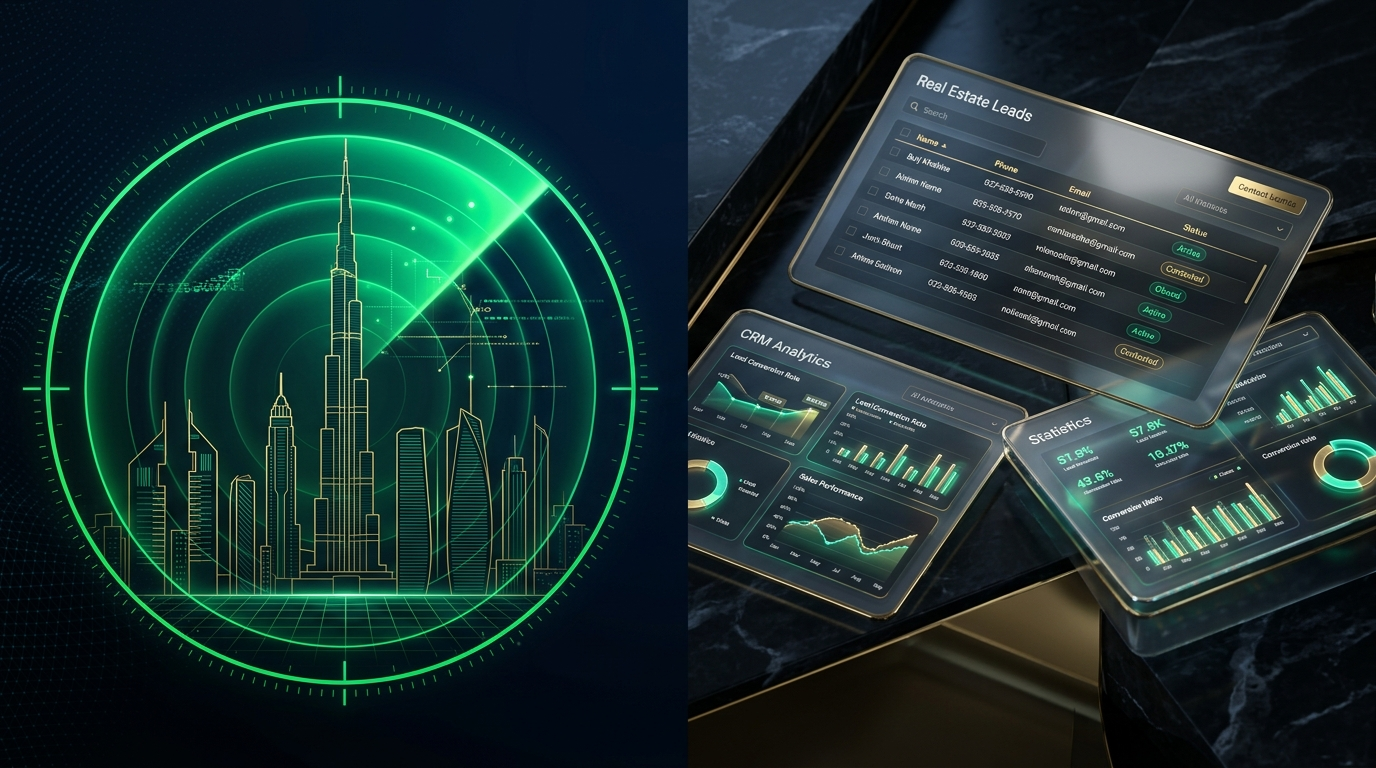
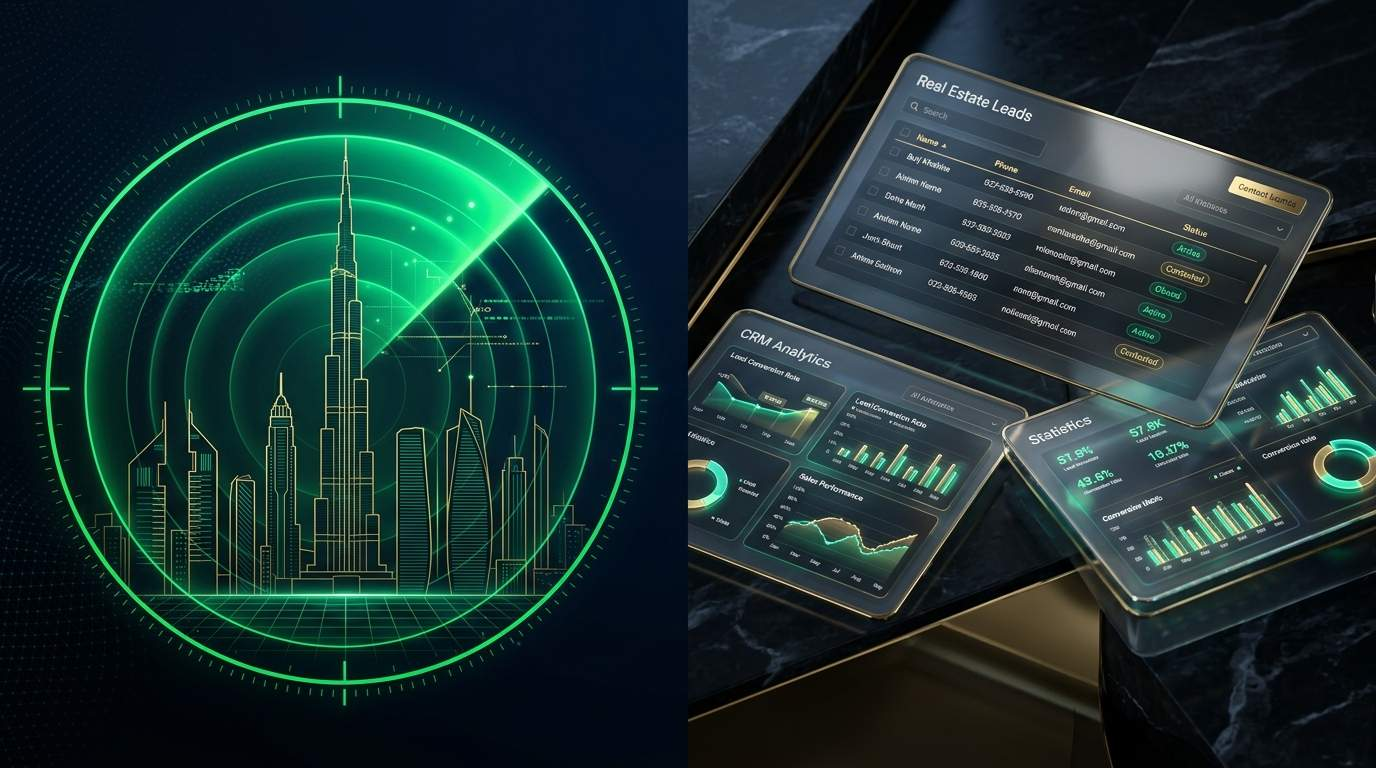
perf(mobile): enable GZip compression, immutable asset caching, 85% hero image compression and paginated lead rendering

Changed region(s): [[0.875, 0.6562, 0.9375, 0.6875], [0.9375, 0.5, 0.9688, 0.5312], [0.8438, 0.6875, 0.875, 0.7188]]

diff --git a/frontend/src/pages/CampaignManager.tsx b/frontend/src/pages/CampaignManager.tsx
@@ -46,6 +46,7 @@ export const CampaignManager: React.FC<CampaignManagerProps> = ({ currentUser })
   const [isLoadingLeads, setIsLoadingLeads] = useState<boolean>(false);
   const [searchTerm, setSearchTerm] = useState<string>('');
   const [statusFilter, setStatusFilter] = useState<'all' | 'pending' | 'sent'>('all');
+  const [displayLimit, setDisplayLimit] = useState<number>(30);
 
   // Single send feedback
   const [sendingLeadId, setSendingLeadId] = useState<string | null>(null);
@@ -800,7 +801,7 @@ export const CampaignManager: React.FC<CampaignManagerProps> = ({ currentUser })
             </div>
 
             <div className="max-h-[580px] overflow-y-auto space-y-2.5 pr-2 custom-scrollbar">
-              {filteredLeads.map((lead, idx) => {
+              {filteredLeads.slice(0, displayLimit).map((lead, idx) => {
                 const isSent = lead.whatsapp_status === 'sent';
                 const isSendingThis = sendingLeadId === lead.id;
                 const cleanPhone = (lead.phone || '').replace(/[^0-9]/g, '');
@@ -897,6 +898,16 @@ export const CampaignManager: React.FC<CampaignManagerProps> = ({ currentUser })
                   </div>
                 );
               })}
+
+              {displayLimit < filteredLeads.length && (
+                <button
+                  type="button"
+                  onClick={() => setDisplayLimit((prev) => prev + 40)}
+                  className="w-full py-3 px-4 rounded-2xl bg-white hover:bg-slate-100 text-slate-800 font-mono text-xs font-bold border border-slate-200 transition shadow-sm"
+                >
+                  ➕ Ver más leads ({filteredLeads.length - displayLimit} restantes)
+                </button>
+              )}
 
               {filteredLeads.length === 0 && (
                 <div className="py-16 text-center text-slate-400 text-xs font-mono">

diff --git a/backend/app/main.py b/backend/app/main.py
@@ -1,5 +1,6 @@
-from fastapi import FastAPI, HTTPException, BackgroundTasks, UploadFile, File, Form, Depends
+from fastapi import FastAPI, HTTPException, BackgroundTasks, UploadFile, File, Form, Depends, Request
 from fastapi.middleware.cors import CORSMiddleware
+from fastapi.middleware.gzip import GZipMiddleware
 from fastapi.staticfiles import StaticFiles
 from typing import List, Dict, Any, Optional
 import uvicorn
@@ -32,6 +33,9 @@ app = FastAPI(
     version="1.0.0"
 )
 
+# Enable GZip compression for mobile network acceleration (reduces bundle & API size by ~75%)
+app.add_middleware(GZipMiddleware, minimum_size=500)
+
 # Enable CORS for frontend clients (Localhost and Render domains)
 app.add_middleware(
     CORSMiddleware,
@@ -40,6 +44,18 @@ app.add_middleware(
     allow_methods=["*"],
     allow_headers=["*"],
 )
+
+@app.middleware("http")
+async def add_performance_and_cache_headers(request: Request, call_next):
+    response = await call_next(request)
+    path = request.url.path
+    # Aggressively cache immutable static assets in mobile browser memory
+    if path.startswith("/assets/") or any(path.endswith(ext) for ext in [".js", ".css", ".jpg", ".jpeg", ".png", ".svg", ".webp", ".woff2", ".ico"]):
+        response.headers["Cache-Control"] = "public, max-age=31536000, immutable"
+    elif path.startswith("/api/"):
+        # Real-time fresh data for CRM endpoints
+        response.headers["Cache-Control"] = "no-cache, no-store, must-revalidate"
+    return response
 
 # Mount static files directory for flyers and documents
 STATIC_DIR = os.path.join(os.path.dirname(__file__), "static")
